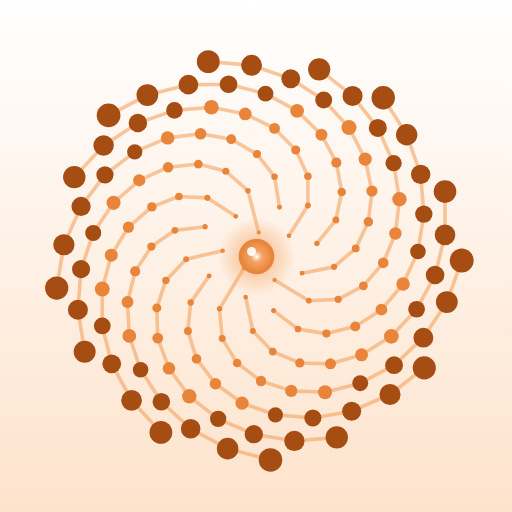
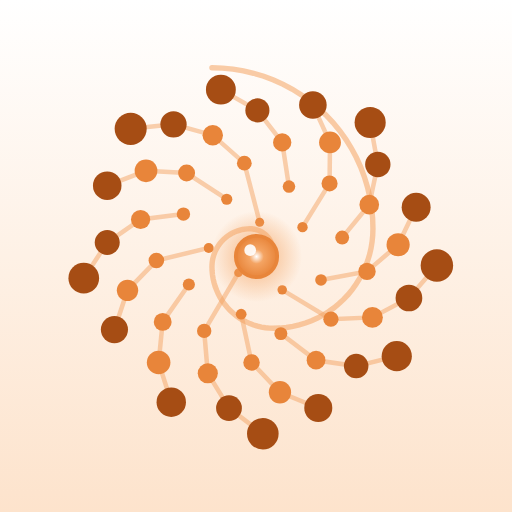
Marca no desenho aprovado: 55 sementes, braços de 13 e espiral áurea fina; ícone principal escuro
Claude-Session: https://claude.ai/code/session_01L2HE3W9j4AWpE7N5A83Ekj

Changed region(s): [[0.0938, 0.0938, 0.9375, 0.9375]]

diff --git a/guilda.js b/guilda.js
@@ -18,7 +18,7 @@ G.groups=[
 G.BASE=(function(){var s=document.currentScript;return s&&s.src?s.src.replace(/[^\/]*$/,''):'';})();
 /* Ícones: sprite da identidade "D-Grafo" (identidade/sprite.svg). Nomes antigos -> nomes do sprite */
 G.MAPA={plano:'plano',mira:'foco',sim:'simulados',mt:'examinador',met:'estruturas',ref:'rajada',mm:'mapa-mental',esq:'quadro',cq:'cartas',fc:'revisoes',anki:'cartao',v:'youtube-minuto',pod:'radio',lab:'raiox',radar:'estatisticas',geo:'orgao',gem:'mentora',expedicao:'trilha',jogo:'conquistas',index:'estante',draw:'rascunho',central:'palacio',identidade:'galeria',config:'concursos'};
-G.SIMBOLO='<defs><radialGradient id="cs"><stop offset="0" stop-color="#fff"/><stop offset=".35" style="stop-color:var(--destaque-2,#f4a463)"/><stop offset="1" style="stop-color:var(--destaque,#e8853a)"/></radialGradient><radialGradient id="gs"><stop offset="0" style="stop-color:var(--destaque-2,#f4a463)" stop-opacity=".8"/><stop offset="1" style="stop-color:var(--destaque-2,#f4a463)" stop-opacity="0"/></radialGradient></defs><path d="M47.2 52.6L41.8 61.6M50.5 44.7L48.1 35.4M54.0 55.2L61.6 59.8M42.5 48.7L34.4 50.6M57.2 45.4L61.4 38.7M47.6 59.0L49.2 66.5M45.4 41.1L39.1 37.0M60.1 53.7L67.2 52.3M39.5 54.3L35.4 60.2M55.1 39.1L54.0 32.3M53.8 62.0L59.2 66.1M38.6 43.4L31.9 44.2M63.4 47.1L67.6 41.9M41.8 61.6L42.4 68.2M48.1 35.4L43.2 31.1M61.6 59.8L68.1 59.5M34.4 50.6L29.9 55.3M61.4 38.7L61.4 32.2M49.2 66.5L53.6 71.1M39.1 37.0L32.8 36.7M67.2 52.3L72.0 48.2M35.4 60.2L34.8 66.5M54.0 32.3L50.1 27.3M59.2 66.1L65.5 67.1M31.9 44.2L26.7 47.8M67.6 41.9L68.9 35.7M42.4 68.2L45.7 73.6M43.2 31.1L37.1 29.5M68.1 59.5L73.7 56.5M29.9 55.3L27.9 61.4M61.4 32.2L58.7 26.4M53.6 71.1L59.6 73.6M32.8 36.7L26.8 39.0M72.0 48.2L74.8 42.3M34.8 66.5L36.7 72.7M50.1 27.3L44.4 24.0M65.5 67.1L71.9 65.5M26.7 47.8L23.1 53.3M68.9 35.7L67.7 29.2M45.7 73.6L51.0 77.6M37.1 29.5L30.4 30.2M73.7 56.5L78.1 51.4M27.9 61.4L28.1 68.1M58.7 26.4L54.0 21.6M59.6 73.6L66.4 73.8M26.8 39.0L21.6 43.5M74.8 42.3L75.6 35.5M36.7 72.7L40.9 78.2M44.4 24.0L37.6 22.8M71.9 65.5L77.7 61.8M23.1 53.3L21.4 60.1M67.7 29.2L64.4 23.0M51.0 77.6L57.7 79.8M30.4 30.2L24.0 33.1M78.1 51.4L80.8 44.9M28.1 68.1L30.6 74.8M54.0 21.6L47.5 18.4M66.4 73.8L73.3 71.8M21.6 43.5L17.8 49.7M75.6 35.5L74.1 28.4M40.9 78.2L46.8 82.5M37.6 22.8L30.3 23.7M77.7 61.8L82.5 56.1M21.4 60.1L21.8 67.6M64.4 23.0L59.0 17.7M57.7 79.8L65.2 80.1M24.0 33.1L18.3 38.1M80.8 44.9L81.7 37.3M30.6 74.8L35.1 81.0M47.5 18.4L40.0 16.9M73.3 71.8L79.9 67.7M17.8 49.7L15.8 57.2M74.1 28.4L70.5 21.4M46.8 82.5L54.2 85.1M30.3 23.7L23.0 26.8M82.5 56.1L85.8 48.9M21.8 67.6L24.3 75.1M59.0 17.7L52.0 13.9M65.2 80.1L73.0 78.1M18.3 38.1L13.8 44.8M81.7 37.3L80.4 29.3M35.1 81.0L41.5 86.0M40.0 16.9L31.8 17.6M79.9 67.7L85.5 61.7M15.8 57.2L15.8 65.4M70.5 21.4L64.9 15.3M54.2 85.1L62.5 85.8M23.0 26.8L16.4 31.9M85.8 48.9L87.1 40.6M24.3 75.1L28.9 82.2M52.0 13.9L43.8 11.8M73.0 78.1L80.5 74.1M13.8 44.8L11.1 52.8M80.4 29.3L76.9 21.5M41.5 86.0L49.4 89.4M31.8 17.6L23.7 20.4M85.5 61.7L89.6 54.1M15.8 65.4L17.9 73.8M64.9 15.3L57.6 10.6M62.5 85.8L71.1 84.3M16.4 31.9L11.1 38.9M87.1 40.6L86.4 31.8M28.9 82.2L35.4 88.2M43.8 11.8L34.9 11.9M80.5 74.1L87.0 68.0M11.1 52.8L10.4 61.8M76.9 21.5L71.3 14.4M49.4 89.4L58.4 90.9M23.7 20.4L16.1 25.4M89.6 54.1L91.8 45.2M17.9 73.8L22.3 81.9M57.6 10.6L48.9 7.6M71.1 84.3L79.6 80.6M11.1 38.9L7.3 47.4M86.4 31.8L83.3 23.0M35.4 88.2L43.6 92.6M34.9 11.9L25.8 14.2M87.0 68.0L92.2 60.1M10.4 61.8L11.9 71.1M71.3 14.4L63.9 8.5M58.4 90.9L67.8 90.1M16.1 25.4L9.6 32.4M91.8 45.2L91.8 35.6M22.3 81.9L28.8 89.0M48.9 7.6L39.3 6.8M79.6 80.6L87.2 74.7M7.3 47.4L5.7 57.0M83.3 23.0L78.1 14.8M43.6 92.6L53.1 95.1M25.8 14.2L17.2 18.7M92.2 60.1L95.5 50.9" fill="none" style="stroke:var(--destaque-2,#f4a463)" stroke-opacity=".62" stroke-width="0.8" stroke-linecap="round"/><g style="fill:var(--destaque,#e8853a)"><circle cx="47.2" cy="52.6" r="0.46"/><circle cx="50.5" cy="44.7" r="0.47"/><circle cx="54.0" cy="55.2" r="0.48"/><circle cx="42.5" cy="48.7" r="0.49"/><circle cx="57.2" cy="45.4" r="0.50"/><circle cx="47.6" cy="59.0" r="0.51"/><circle cx="45.4" cy="41.1" r="0.52"/><circle cx="60.1" cy="53.7" r="0.53"/><circle cx="39.5" cy="54.3" r="0.54"/><circle cx="55.1" cy="39.1" r="0.55"/><circle cx="53.8" cy="62.0" r="0.56"/><circle cx="38.6" cy="43.4" r="0.58"/><circle cx="63.4" cy="47.1" r="0.59"/><circle cx="41.8" cy="61.6" r="0.60"/><circle cx="48.1" cy="35.4" r="0.61"/><circle cx="61.6" cy="59.8" r="0.63"/><circle cx="34.4" cy="50.6" r="0.64"/><circle cx="61.4" cy="38.7" r="0.65"/><circle cx="49.2" cy="66.5" r="0.66"/><circle cx="39.1" cy="37.0" r="0.68"/><circle cx="67.2" cy="52.3" r="0.69"/><circle cx="35.4" cy="60.2" r="0.70"/><circle cx="54.0" cy="32.3" r="0.72"/><circle cx="59.2" cy="66.1" r="0.73"/><circle cx="31.9" cy="44.2" r="0.74"/><circle cx="67.6" cy="41.9" r="0.76"/><circle cx="42.4" cy="68.2" r="0.77"/><circle cx="43.2" cy="31.1" r="0.78"/><circle cx="68.1" cy="59.5" r="0.80"/><circle cx="29.9" cy="55.3" r="0.81"/><circle cx="61.4" cy="32.2" r="0.83"/><circle cx="53.6" cy="71.1" r="0.84"/><circle cx="32.8" cy="36.7" r="0.85"/><circle cx="72.0" cy="48.2" r="0.87"/><circle cx="34.8" cy="66.5" r="0.88"/><circle cx="50.1" cy="27.3" r="0.90"/><circle cx="65.5" cy="67.1" r="0.91"/><circle cx="26.7" cy="47.8" r="0.93"/><circle cx="68.9" cy="35.7" r="0.94"/><circle cx="45.7" cy="73.6" r="0.95"/><circle cx="37.1" cy="29.5" r="0.97"/><circle cx="73.7" cy="56.5" r="0.98"/><circle cx="27.9" cy="61.4" r="1.00"/><circle cx="58.7" cy="26.4" r="1.01"/><circle cx="59.6" cy="73.6" r="1.03"/><circle cx="26.8" cy="39.0" r="1.04"/><circle cx="74.8" cy="42.3" r="1.06"/><circle cx="36.7" cy="72.7" r="1.07"/><circle cx="44.4" cy="24.0" r="1.09"/><circle cx="71.9" cy="65.5" r="1.10"/><circle cx="23.1" cy="53.3" r="1.12"/><circle cx="67.7" cy="29.2" r="1.13"/><circle cx="51.0" cy="77.6" r="1.15"/><circle cx="30.4" cy="30.2" r="1.16"/><circle cx="78.1" cy="51.4" r="1.18"/><circle cx="28.1" cy="68.1" r="1.19"/><circle cx="54.0" cy="21.6" r="1.21"/><circle cx="66.4" cy="73.8" r="1.22"/><circle cx="21.6" cy="43.5" r="1.24"/><circle cx="75.6" cy="35.5" r="1.25"/><circle cx="40.9" cy="78.2" r="1.27"/><circle cx="37.6" cy="22.8" r="1.28"/><circle cx="77.7" cy="61.8" r="1.30"/><circle cx="21.4" cy="60.1" r="1.32"/><circle cx="64.4" cy="23.0" r="1.33"/><circle cx="57.7" cy="79.8" r="1.35"/><circle cx="24.0" cy="33.1" r="1.36"/><circle cx="80.8" cy="44.9" r="1.38"/><circle cx="30.6" cy="74.8" r="1.39"/><circle cx="47.5" cy="18.4" r="1.41"/><circle cx="73.3" cy="71.8" r="1.43"/><circle cx="17.8" cy="49.7" r="1.44"/><circle cx="74.1" cy="28.4" r="1.46"/><circle cx="46.8" cy="82.5" r="1.47"/><circle cx="30.3" cy="23.7" r="1.49"/><circle cx="82.5" cy="56.1" r="1.50"/><circle cx="21.8" cy="67.6" r="1.52"/><circle cx="59.0" cy="17.7" r="1.54"/><circle cx="65.2" cy="80.1" r="1.55"/><circle cx="18.3" cy="38.1" r="1.57"/><circle cx="81.7" cy="37.3" r="1.59"/><circle cx="35.1" cy="81.0" r="1.60"/><circle cx="40.0" cy="16.9" r="1.62"/><circle cx="79.9" cy="67.7" r="1.63"/><circle cx="15.8" cy="57.2" r="1.65"/><circle cx="70.5" cy="21.4" r="1.67"/></g><g style="fill:var(--accent,#a64d14)"><circle cx="54.2" cy="85.1" r="1.68"/><circle cx="23.0" cy="26.8" r="1.70"/><circle cx="85.8" cy="48.9" r="1.72"/><circle cx="24.3" cy="75.1" r="1.73"/><circle cx="52.0" cy="13.9" r="1.75"/><circle cx="73.0" cy="78.1" r="1.76"/><circle cx="13.8" cy="44.8" r="1.78"/><circle cx="80.4" cy="29.3" r="1.80"/><circle cx="41.5" cy="86.0" r="1.81"/><circle cx="31.8" cy="17.6" r="1.83"/><circle cx="85.5" cy="61.7" r="1.85"/><circle cx="15.8" cy="65.4" r="1.86"/><circle cx="64.9" cy="15.3" r="1.88"/><circle cx="62.5" cy="85.8" r="1.90"/><circle cx="16.4" cy="31.9" r="1.91"/><circle cx="87.1" cy="40.6" r="1.93"/><circle cx="28.9" cy="82.2" r="1.95"/><circle cx="43.8" cy="11.8" r="1.96"/><circle cx="80.5" cy="74.1" r="1.98"/><circle cx="11.1" cy="52.8" r="2.00"/><circle cx="76.9" cy="21.5" r="2.01"/><circle cx="49.4" cy="89.4" r="2.03"/><circle cx="23.7" cy="20.4" r="2.05"/><circle cx="89.6" cy="54.1" r="2.06"/><circle cx="17.9" cy="73.8" r="2.08"/><circle cx="57.6" cy="10.6" r="2.10"/><circle cx="71.1" cy="84.3" r="2.11"/><circle cx="11.1" cy="38.9" r="2.13"/><circle cx="86.4" cy="31.8" r="2.15"/><circle cx="35.4" cy="88.2" r="2.17"/><circle cx="34.9" cy="11.9" r="2.18"/><circle cx="87.0" cy="68.0" r="2.20"/><circle cx="10.4" cy="61.8" r="2.22"/><circle cx="71.3" cy="14.4" r="2.23"/><circle cx="58.4" cy="90.9" r="2.25"/><circle cx="16.1" cy="25.4" r="2.27"/><circle cx="91.8" cy="45.2" r="2.29"/><circle cx="22.3" cy="81.9" r="2.30"/><circle cx="48.9" cy="7.6" r="2.32"/><circle cx="79.6" cy="80.6" r="2.34"/><circle cx="7.3" cy="47.4" r="2.35"/><circle cx="83.3" cy="23.0" r="2.37"/><circle cx="43.6" cy="92.6" r="2.39"/><circle cx="25.8" cy="14.2" r="2.41"/><circle cx="92.2" cy="60.1" r="2.42"/><circle cx="11.9" cy="71.1" r="2.44"/><circle cx="63.9" cy="8.5" r="2.46"/><circle cx="67.8" cy="90.1" r="2.48"/><circle cx="9.6" cy="32.4" r="2.49"/><circle cx="91.8" cy="35.6" r="2.51"/><circle cx="28.8" cy="89.0" r="2.53"/><circle cx="39.3" cy="6.8" r="2.54"/><circle cx="87.2" cy="74.7" r="2.56"/><circle cx="5.7" cy="57.0" r="2.58"/><circle cx="78.1" cy="14.8" r="2.60"/><circle cx="53.1" cy="95.1" r="2.61"/><circle cx="17.2" cy="18.7" r="2.63"/><circle cx="95.5" cy="50.9" r="2.65"/></g><circle cx="50" cy="50" r="8.6" fill="url(#gs)"/><circle cx="50" cy="50" r="3.6" fill="url(#cs)" style="stroke:var(--destaque,#e8853a)" stroke-width=".7"/><circle cx="48.9" cy="48.9" r="1" fill="#fff" fill-opacity=".9"/>';
+G.SIMBOLO='<defs><radialGradient id="cs"><stop offset="0" stop-color="#fff"/><stop offset=".35" style="stop-color:var(--destaque-2,#f4a463)"/><stop offset="1" style="stop-color:var(--destaque,#e8853a)"/></radialGradient><radialGradient id="gs"><stop offset="0" style="stop-color:var(--destaque-2,#f4a463)" stop-opacity=".8"/><stop offset="1" style="stop-color:var(--destaque-2,#f4a463)" stop-opacity="0"/></radialGradient></defs><path d="M50.00 50.00 L50.00 50.00 L50.01 50.00 L50.01 50.00 L50.02 50.00 L50.02 50.00 L50.03 49.99 L50.03 49.99 L50.03 49.99 L50.04 49.99 L50.04 49.99 L50.05 49.98 L50.05 49.98 L50.05 49.98 L50.05 49.97 L50.06 49.97 L50.06 49.97 L50.06 49.96 L50.06 49.96 L50.06 49.95 L50.07 49.95 L50.07 49.94 L50.07 49.94 L50.07 49.94 L50.07 49.93 L50.07 49.92 L50.07 49.92 L50.07 49.91 L50.06 49.90 L50.06 49.90 L50.06 49.89 L50.06 49.88 L50.05 49.88 L50.05 49.87 L50.05 49.86 L50.04 49.86 L50.04 49.85 L50.03 49.85 L50.03 49.84 L50.02 49.84 L50.01 49.84 L50.01 49.83 L50.00 49.83 L49.99 49.83 L49.99 49.82 L49.98 49.82 L49.97 49.82 L49.96 49.82 L49.96 49.82 L49.95 49.82 L49.93 49.82 L49.92 49.82 L49.91 49.83 L49.90 49.83 L49.89 49.83 L49.88 49.84 L49.87 49.84 L49.86 49.85 L49.85 49.86 L49.84 49.87 L49.83 49.87 L49.82 49.88 L49.82 49.89 L49.81 49.90 L49.80 49.91 L49.80 49.92 L49.79 49.93 L49.79 49.94 L49.78 49.95 L49.78 49.97 L49.78 49.98 L49.78 49.99 L49.78 50.00 L49.78 50.02 L49.78 50.04 L49.78 50.06 L49.79 50.08 L49.79 50.09 L49.80 50.11 L49.81 50.13 L49.82 50.15 L49.83 50.16 L49.84 50.18 L49.85 50.19 L49.86 50.21 L49.88 50.22 L49.89 50.23 L49.91 50.24 L49.92 50.25 L49.94 50.26 L49.96 50.27 L49.98 50.27 L49.99 50.28 L50.01 50.28 L50.03 50.29 L50.05 50.29 L50.07 50.29 L50.10 50.29 L50.13 50.29 L50.16 50.28 L50.19 50.27 L50.22 50.27 L50.25 50.25 L50.28 50.24 L50.30 50.23 L50.33 50.21 L50.35 50.19 L50.38 50.17 L50.40 50.15 L50.42 50.13 L50.44 50.11 L50.46 50.08 L50.48 50.06 L50.49 50.03 L50.50 50.00 L50.51 49.97 L50.52 49.94 L50.53 49.91 L50.53 49.88 L50.54 49.85 L50.54 49.82 L50.54 49.77 L50.53 49.72 L50.52 49.67 L50.51 49.62 L50.50 49.58 L50.48 49.53 L50.46 49.48 L50.44 49.44 L50.41 49.40 L50.38 49.36 L50.35 49.32 L50.32 49.28 L50.28 49.25 L50.24 49.22 L50.20 49.19 L50.16 49.16 L50.11 49.14 L50.07 49.12 L50.02 49.10 L49.97 49.09 L49.93 49.08 L49.88 49.07 L49.83 49.06 L49.78 49.06 L49.70 49.06 L49.62 49.07 L49.54 49.08 L49.46 49.10 L49.38 49.13 L49.31 49.15 L49.23 49.19 L49.16 49.23 L49.10 49.27 L49.03 49.31 L48.97 49.37 L48.91 49.42 L48.85 49.48 L48.80 49.54 L48.76 49.61 L48.71 49.68 L48.68 49.75 L48.64 49.82 L48.61 49.90 L48.59 49.97 L48.57 50.05 L48.56 50.13 L48.55 50.21 L48.55 50.29 L48.55 50.42 L48.57 50.55 L48.59 50.68 L48.62 50.81 L48.65 50.93 L48.70 51.05 L48.75 51.17 L48.82 51.29 L48.88 51.40 L48.96 51.50 L49.04 51.60 L49.13 51.70 L49.23 51.79 L49.33 51.87 L49.43 51.94 L49.54 52.01 L49.66 52.07 L49.78 52.13 L49.90 52.17 L50.02 52.21 L50.15 52.24 L50.28 52.26 L50.41 52.28 L50.54 52.28 L50.75 52.27 L50.96 52.25 L51.17 52.22 L51.37 52.17 L51.57 52.11 L51.77 52.03 L51.96 51.95 L52.15 51.85 L52.33 51.74 L52.50 51.61 L52.66 51.48 L52.81 51.34 L52.96 51.18 L53.09 51.02 L53.21 50.85 L53.33 50.67 L53.43 50.48 L53.51 50.29 L53.59 50.10 L53.65 49.89 L53.70 49.69 L53.73 49.48 L53.75 49.27 L53.76 49.06 L53.75 48.72 L53.71 48.38 L53.66 48.04 L53.58 47.71 L53.48 47.39 L53.36 47.07 L53.22 46.76 L53.06 46.46 L52.88 46.17 L52.68 45.89 L52.46 45.63 L52.23 45.38 L51.98 45.14 L51.72 44.93 L51.44 44.73 L51.15 44.55 L50.85 44.39 L50.54 44.25 L50.22 44.13 L49.90 44.03 L49.56 43.95 L49.23 43.90 L48.89 43.86 L48.55 43.85 L48.00 43.87 L47.45 43.92 L46.90 44.01 L46.37 44.14 L45.84 44.30 L45.32 44.49 L44.82 44.72 L44.33 44.98 L43.87 45.27 L43.42 45.59 L42.99 45.94 L42.59 46.32 L42.21 46.72 L41.86 47.15 L41.54 47.60 L41.25 48.07 L40.99 48.55 L40.76 49.05 L40.57 49.57 L40.41 50.10 L40.28 50.64 L40.19 51.18 L40.14 51.73 L40.12 52.28 L40.15 53.17 L40.24 54.06 L40.38 54.94 L40.59 55.81 L40.84 56.66 L41.16 57.50 L41.53 58.31 L41.95 59.10 L42.42 59.86 L42.94 60.58 L43.50 61.27 L44.11 61.92 L44.77 62.53 L45.46 63.10 L46.18 63.62 L46.94 64.09 L47.73 64.51 L48.54 64.88 L49.37 65.19 L50.23 65.45 L51.10 65.65 L51.98 65.80 L52.87 65.89 L53.76 65.92 L55.20 65.87 L56.64 65.73 L58.06 65.49 L59.47 65.16 L60.85 64.75 L62.20 64.24 L63.52 63.64 L64.79 62.96 L66.02 62.20 L67.19 61.36 L68.31 60.44 L69.36 59.45 L70.35 58.40 L71.26 57.28 L72.10 56.11 L72.87 54.88 L73.55 53.61 L74.14 52.30 L74.65 50.94 L75.07 49.56 L75.40 48.16 L75.63 46.73 L75.77 45.29 L75.82 43.85 L75.75 41.52 L75.52 39.19 L75.14 36.89 L74.61 34.61 L73.93 32.38 L73.10 30.19 L72.14 28.06 L71.04 26.00 L69.81 24.02 L68.44 22.12 L66.96 20.31 L65.37 18.61 L63.66 17.01 L61.85 15.53 L59.96 14.17 L57.97 12.93 L55.91 11.83 L53.78 10.87 L51.60 10.04 L49.36 9.37 L47.09 8.84 L44.78 8.46 L42.46 8.23 L40.12 8.15" fill="none" style="stroke:var(--destaque-2,#f4a463)" stroke-opacity=".55" stroke-width="1.2" stroke-linecap="round"/><path d="M46.0 53.6 L38.4 66.5 L39.2 75.9 L43.9 83.6 L51.4 89.3M50.7 42.4 L47.3 29.3 L40.3 23.1 L31.6 20.7 L22.1 21.7M55.7 57.4 L66.5 63.9 L75.7 63.5 L83.8 59.2 L90.0 52.0M39.4 48.1 L27.8 50.9 L21.4 57.5 L18.5 66.2M60.2 43.5 L66.2 33.8 L66.3 24.7 L62.5 16.4M46.6 62.8 L48.9 73.5 L55.2 80.1 L63.7 83.6M43.4 37.3 L34.5 31.5 L25.5 31.0 L16.9 34.3M64.3 55.2 L74.5 53.3 L81.4 47.4 L85.4 39.1M35.0 56.2 L29.2 64.5 L28.3 73.5 L31.1 82.3M57.2 34.5 L55.7 24.7 L50.2 17.6 L42.1 13.0M55.4 67.1 L63.2 73.0 L72.1 74.3 L81.1 72.1M33.8 40.6 L24.3 41.8 L16.9 46.9 L11.7 54.8M69.0 45.8 L75.0 38.5 L76.9 29.6 L75.2 20.3" fill="none" style="stroke:var(--destaque-2,#f4a463)" stroke-opacity=".5" stroke-width="1"/><g style="fill:var(--destaque,#e8853a)"><circle cx="46.0" cy="53.6" r="0.95"/><circle cx="50.7" cy="42.4" r="1.00"/><circle cx="55.7" cy="57.4" r="1.05"/><circle cx="39.4" cy="48.1" r="1.10"/><circle cx="60.2" cy="43.5" r="1.15"/><circle cx="46.6" cy="62.8" r="1.19"/><circle cx="43.4" cy="37.3" r="1.24"/><circle cx="64.3" cy="55.2" r="1.29"/><circle cx="35.0" cy="56.2" r="1.34"/><circle cx="57.2" cy="34.5" r="1.39"/><circle cx="55.4" cy="67.1" r="1.44"/><circle cx="33.8" cy="40.6" r="1.49"/><circle cx="69.0" cy="45.8" r="1.54"/><circle cx="38.4" cy="66.5" r="1.59"/><circle cx="47.3" cy="29.3" r="1.64"/><circle cx="66.5" cy="63.9" r="1.69"/><circle cx="27.8" cy="50.9" r="1.73"/><circle cx="66.2" cy="33.8" r="1.78"/><circle cx="48.9" cy="73.5" r="1.83"/><circle cx="34.5" cy="31.5" r="1.88"/><circle cx="74.5" cy="53.3" r="1.93"/><circle cx="29.2" cy="64.5" r="1.98"/><circle cx="55.7" cy="24.7" r="2.03"/><circle cx="63.2" cy="73.0" r="2.08"/><circle cx="24.3" cy="41.8" r="2.13"/><circle cx="75.0" cy="38.5" r="2.18"/><circle cx="39.2" cy="75.9" r="2.23"/><circle cx="40.3" cy="23.1" r="2.27"/><circle cx="75.7" cy="63.5" r="2.32"/><circle cx="21.4" cy="57.5" r="2.37"/><circle cx="66.3" cy="24.7" r="2.42"/><circle cx="55.2" cy="80.1" r="2.47"/><circle cx="25.5" cy="31.0" r="2.52"/><circle cx="81.4" cy="47.4" r="2.57"/><circle cx="28.3" cy="73.5" r="2.62"/></g><g style="fill:var(--accent,#a64d14)"><circle cx="50.2" cy="17.6" r="2.67"/><circle cx="72.1" cy="74.3" r="2.72"/><circle cx="16.9" cy="46.9" r="2.77"/><circle cx="76.9" cy="29.6" r="2.81"/><circle cx="43.9" cy="83.6" r="2.86"/><circle cx="31.6" cy="20.7" r="2.91"/><circle cx="83.8" cy="59.2" r="2.96"/><circle cx="18.5" cy="66.2" r="3.01"/><circle cx="62.5" cy="16.4" r="3.06"/><circle cx="63.7" cy="83.6" r="3.11"/><circle cx="16.9" cy="34.3" r="3.16"/><circle cx="85.4" cy="39.1" r="3.21"/><circle cx="31.1" cy="82.3" r="3.26"/><circle cx="42.1" cy="13.0" r="3.31"/><circle cx="81.1" cy="72.1" r="3.35"/><circle cx="11.7" cy="54.8" r="3.40"/><circle cx="75.2" cy="20.3" r="3.45"/><circle cx="51.4" cy="89.3" r="3.50"/><circle cx="22.1" cy="21.7" r="3.55"/><circle cx="90.0" cy="52.0" r="3.60"/></g><circle cx="50" cy="50" r="10.1" fill="url(#gs)"/><circle cx="50" cy="50" r="4.6" fill="url(#cs)" style="stroke:var(--destaque,#e8853a)" stroke-width=".8"/><circle cx="48.6" cy="48.6" r="1.3" fill="#fff" fill-opacity=".9"/>';
 G.CHAVES={'draw/index.html':'draw','expedicao.html':'expedicao','jogo.html':'jogo','index.html':'index','identidade/index.html':'identidade'};
 G.svg=function(k,size){var n=G.CHAVES[k]||(/artifact\/Ukc2/.test(k)?'draw':(/artifact\/RM3d/.test(k)?'central':k));size=size||26;
   if(n==='marca')return '<svg class="gi gm" viewBox="0 0 100 100" width="'+size+'" height="'+size+'" aria-hidden="true" focusable="false">'+G.SIMBOLO+'</svg>';

diff --git a/identidade/index.html b/identidade/index.html
@@ -15,7 +15,7 @@ img.capa{width:100%;height:auto;border-radius:var(--raio-g);box-shadow:var(--som
 <body><main>
 <div style="font:600 12px 'IBM Plex Mono',monospace;letter-spacing:.14em;text-transform:uppercase;color:var(--muted)">Dora Guilda · identidade visual</div>
 <h1>Girassol de Fibonacci</h1>
-<p class="n">Sementes dispostas pelo ângulo de ouro (137,5°) e ligadas em braços de Fibonacci: uma flor que é também um grafo, símbolo de esperança e de seguir a luz. 144 pontos. O ícone principal do app é a versão escura. Ícones, molduras, selos, capas e estados vazios seguem valendo.</p>
+<p class="n">Sementes dispostas pelo ângulo de ouro (137,5°) e ligadas em braços de Fibonacci: uma flor que é também um grafo, símbolo de esperança e de seguir a luz. 55 sementes, como o desenho aprovado. O ícone principal do app é a versão escura. Ícones, molduras, selos, capas e estados vazios seguem valendo.</p>
 <h2>Marca e logo</h2>
 <div class="row"><div class="card"><img src="marca.svg" width="150" alt="Marca"></div><div class="card"><img src="logo.svg" width="420" alt="Logo"></div><div class="card" style="background:#3a2e26"><img src="logo-claro.svg" width="360" alt="Logo claro"></div></div>
 <p><a class="dl" href="marca.svg" download>marca.svg</a> · <a class="dl" href="logo.svg" download>logo.svg</a> · <a class="dl" href="logo-claro.svg" download>logo-claro.svg</a></p>

diff --git a/sw.js b/sw.js
@@ -1,5 +1,5 @@
 // Service worker do Doroxandria: abre offline e atualiza em segundo plano.
-const CACHE = 'arena-202611220200';
+const CACHE = 'arena-202611220300';
 const SHELL = ['./', 'index.html', 'manifest.json', 'icon-192.png', 'icon-512.png',
   'questoes.json', 'cards.json', 'banca.json', 'videos.json', 'links.json',
   'cadernos.json', 'biblioteca.json', 'concursos/indice.json', 'concursos/transpetro-2026-enfase5.json', 'jogo.html', 'macetes.json',

diff --git a/AGENTS.md b/AGENTS.md
@@ -143,4 +143,4 @@ Ainda não integrados do pacote `legado/`: Provas Previstas e Calibradas (14 MB)
 Substitui a proposta A: `identidade/` agora tem marca/logo/capa/sprites/mascotes da proposta B (feita na sessão local). `guilda.js` usa `identidade/sprite.svg` (`G.MAPA` liga as chaves antigas aos nomes `dg-*`); `G.BASE` resolve o caminho. Não mudar cores/tokens. Ícones de app: `icon-192/512/maskable-512.png`. Ícones do Dora Draw (`draw/icones/`) ficam com a sessão local.
 
 ## Identidade final: girassol de Fibonacci (22/11)
-Símbolo escolhido pelo Ronaldo: sementes pelo ângulo de ouro ligadas em braços de Fibonacci. `identidade/marca.svg` e `marca-compacta.svg` (mesmo desenho: 144 pontos, braços de 13; 377 pontos ficou pesado e foi descartado; usado inline em `guilda.js` `G.SIMBOLO`). Cores por token (`--accent`, `--destaque`, `--destaque-2`) com fallback laranja, então seguem os 17 temas. Ícones do app: `node identidade/gerar-png.js` gera `icon-192/512.png`, `icon-maskable-512.png` e `identidade/final/icone-claro-512.png`; o ícone principal do app é o ESCURO. Propostas descartadas ficam em `identidade/propostas*`. Substitui o escudo provisório e o D com cérebro (rejeitado).
+Símbolo escolhido pelo Ronaldo: sementes pelo ângulo de ouro ligadas em braços de Fibonacci. `identidade/marca.svg` e `marca-compacta.svg` (mesmo desenho aprovado pelo Ronaldo: 55 sementes, braços de 13 e a espiral áurea fina atravessando; mais pontos foi rejeitado; usado inline em `guilda.js` `G.SIMBOLO`). Cores por token (`--accent`, `--destaque`, `--destaque-2`) com fallback laranja, então seguem os 17 temas. Ícones do app: `node identidade/gerar-png.js` gera `icon-192/512.png`, `icon-maskable-512.png` e `identidade/final/icone-claro-512.png`; o ícone principal do app é o ESCURO. Propostas descartadas ficam em `identidade/propostas*`. Substitui o escudo provisório e o D com cérebro (rejeitado).
